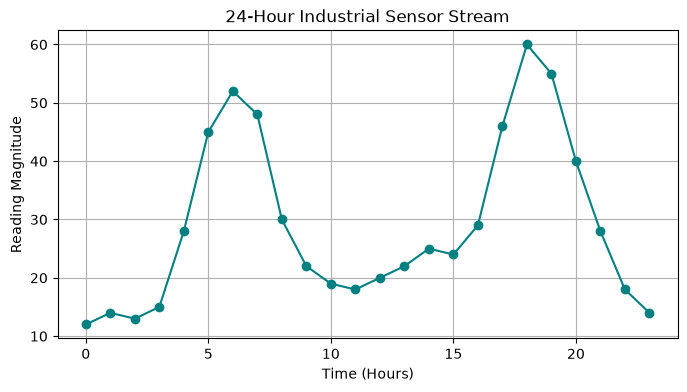
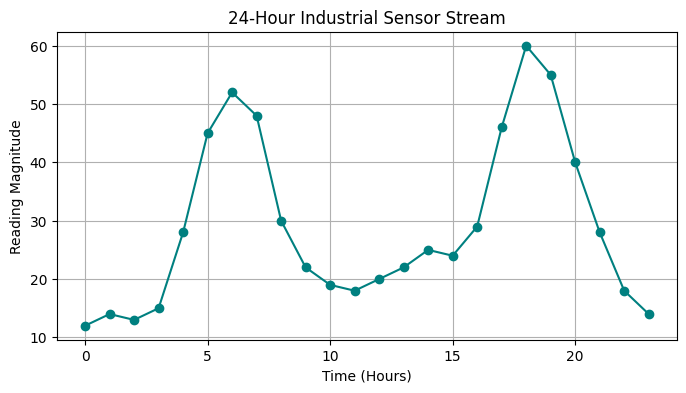
update

diff --git a/README.md b/README.md
@@ -13,6 +13,18 @@
 
 ---
 
+## 📚 Multimodal Architecture
+
+<p align="center">
+  <img src="assets/mllms.gif" alt="Multimodal Large Language Model Architecture" width="850"/>
+  <br>
+  <em><b>Figure 1:</b> The visualization illustrates the complete architecture of the Extended Multimodal LLM, detailing the flow from heterogeneous inputs to the final natural language output.</em>
+</p>
+
+
+---
+
+
 ## 📌 Overall Architectures
 
 <p align="center">
